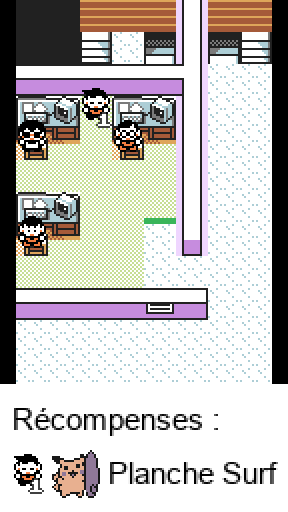
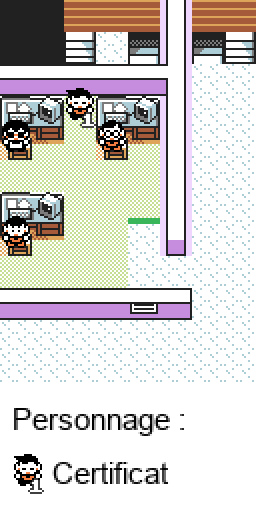
feat(maps): improved Printer and Surfer dialogs

diff --git a/generated_scripts/mark_visible_objects.py b/generated_scripts/mark_visible_objects.py
@@ -657,8 +657,7 @@ DONS_OBJETS_MANUELS = {
     ("PewterMuseum1F", 5): "OLD_AMBER",
     ("CeladonDiner", 5): "COIN_CASE",
     ("BillsHouse", 1): "S_S_TICKET",
-    ("CeladonCity", 5): "TM37_SLUDGE_BOMB",
-    ("CeladonMansion3F", 4): "SURFBOARD",
+    ("CeladonCity", 5): "TM37_SLUDGE_BOMB",   
     ("CeladonMart3F", 1): "TM18_COUNTER",
     ("CeruleanBikeShop", 1): "BICYCLE",
     ("PewterGym", 1): "TM34_BIDE",
@@ -787,6 +786,8 @@ LIBELLES_PNJ_MANUELS = {
     ("SSAnne1F", 1): "Serveur",
     ("SSAnneKitchen", 8): "Organisateur du Tournoi",
     ("UndergroundPathNorthSouth", 1): "Cilque",
+    ("CeruleanPrinter", 1): "Imprimeur",
+    ("CeladonMansion3F", 4): "Certificat",
 }
 
 # Catégories de la légende : « Rencontres » = dresseurs + rencontres
